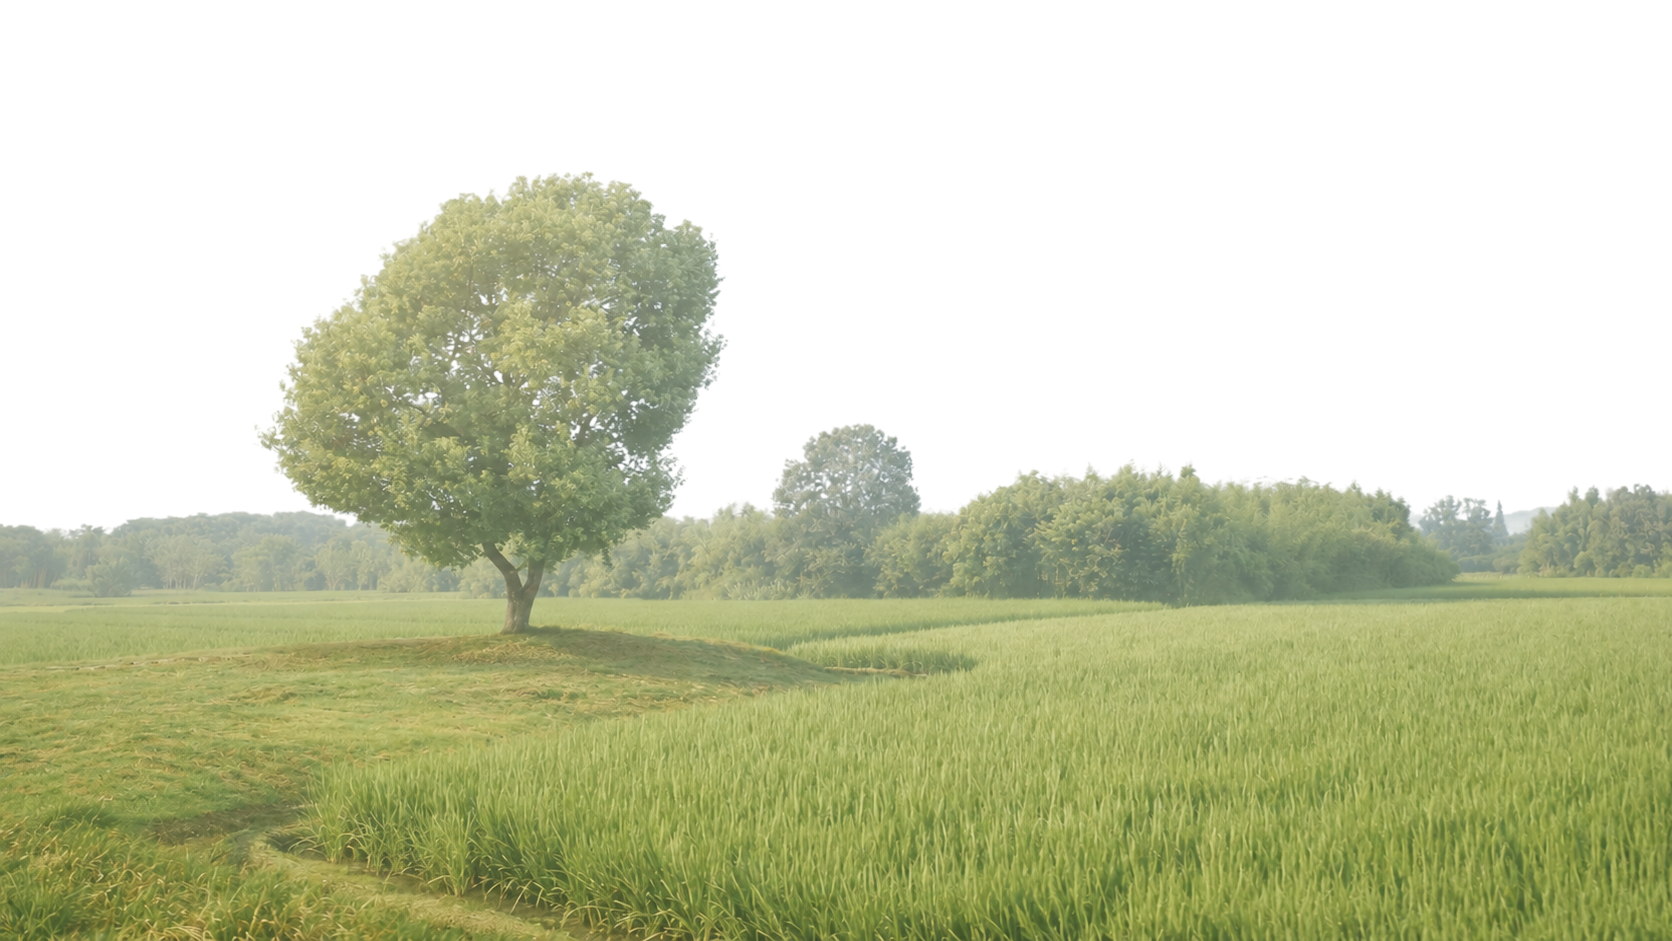
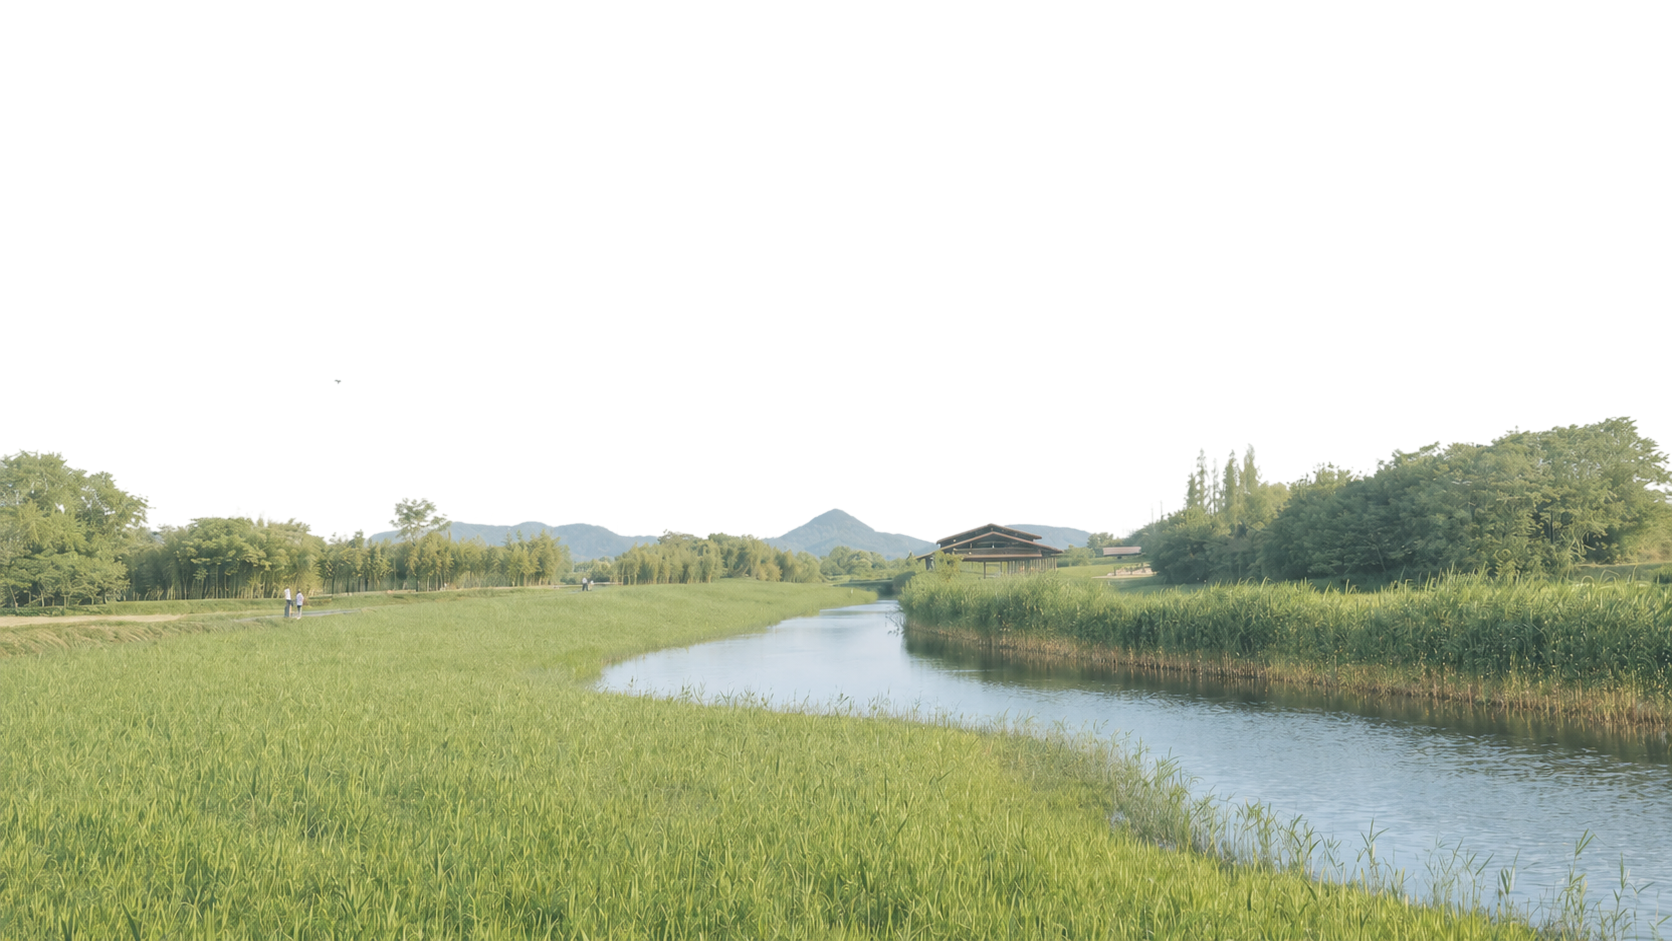
农庄黑屏处理和农庄图片替换

diff --git a/public/intro/styles.css b/public/intro/styles.css
@@ -13,7 +13,7 @@ html {
 body {
   font-family: "Noto Serif SC", serif;
   min-height: 100%;
-  background: #0a1219;
+  background: #d4dde5;
   color: #fff;
   overflow-x: hidden;
   -webkit-font-smoothing: antialiased;
@@ -286,7 +286,7 @@ body {
   height: 100vh;
   overflow: hidden;
   opacity: 0;
-  background: transparent;
+  background: #cdd8dc;
   will-change: opacity;
 }
 

diff --git a/public/intro/script.js b/public/intro/script.js
@@ -457,7 +457,7 @@
       const farmProgress = easeInOut(farmRaw);
       // 农庄素材顶部带半透明浅色天空，长时间整屏淡入会像一块白色遮罩。
       // 等云层真正散开后再用较短的过渡接入农庄，保留浮现感但避免大面积泛白。
-      const farmReveal = segEaseBy("out", farmRaw, 0.32, 0.5);
+      const farmReveal = segEaseBy("out", farmRaw, 0.12, 0.42);
       const bgScale = lerp(1.12, 1, farmProgress);
       const bgY = lerp(3, -2, farmProgress);
       const frontY = lerp(52, -34, farmProgress);